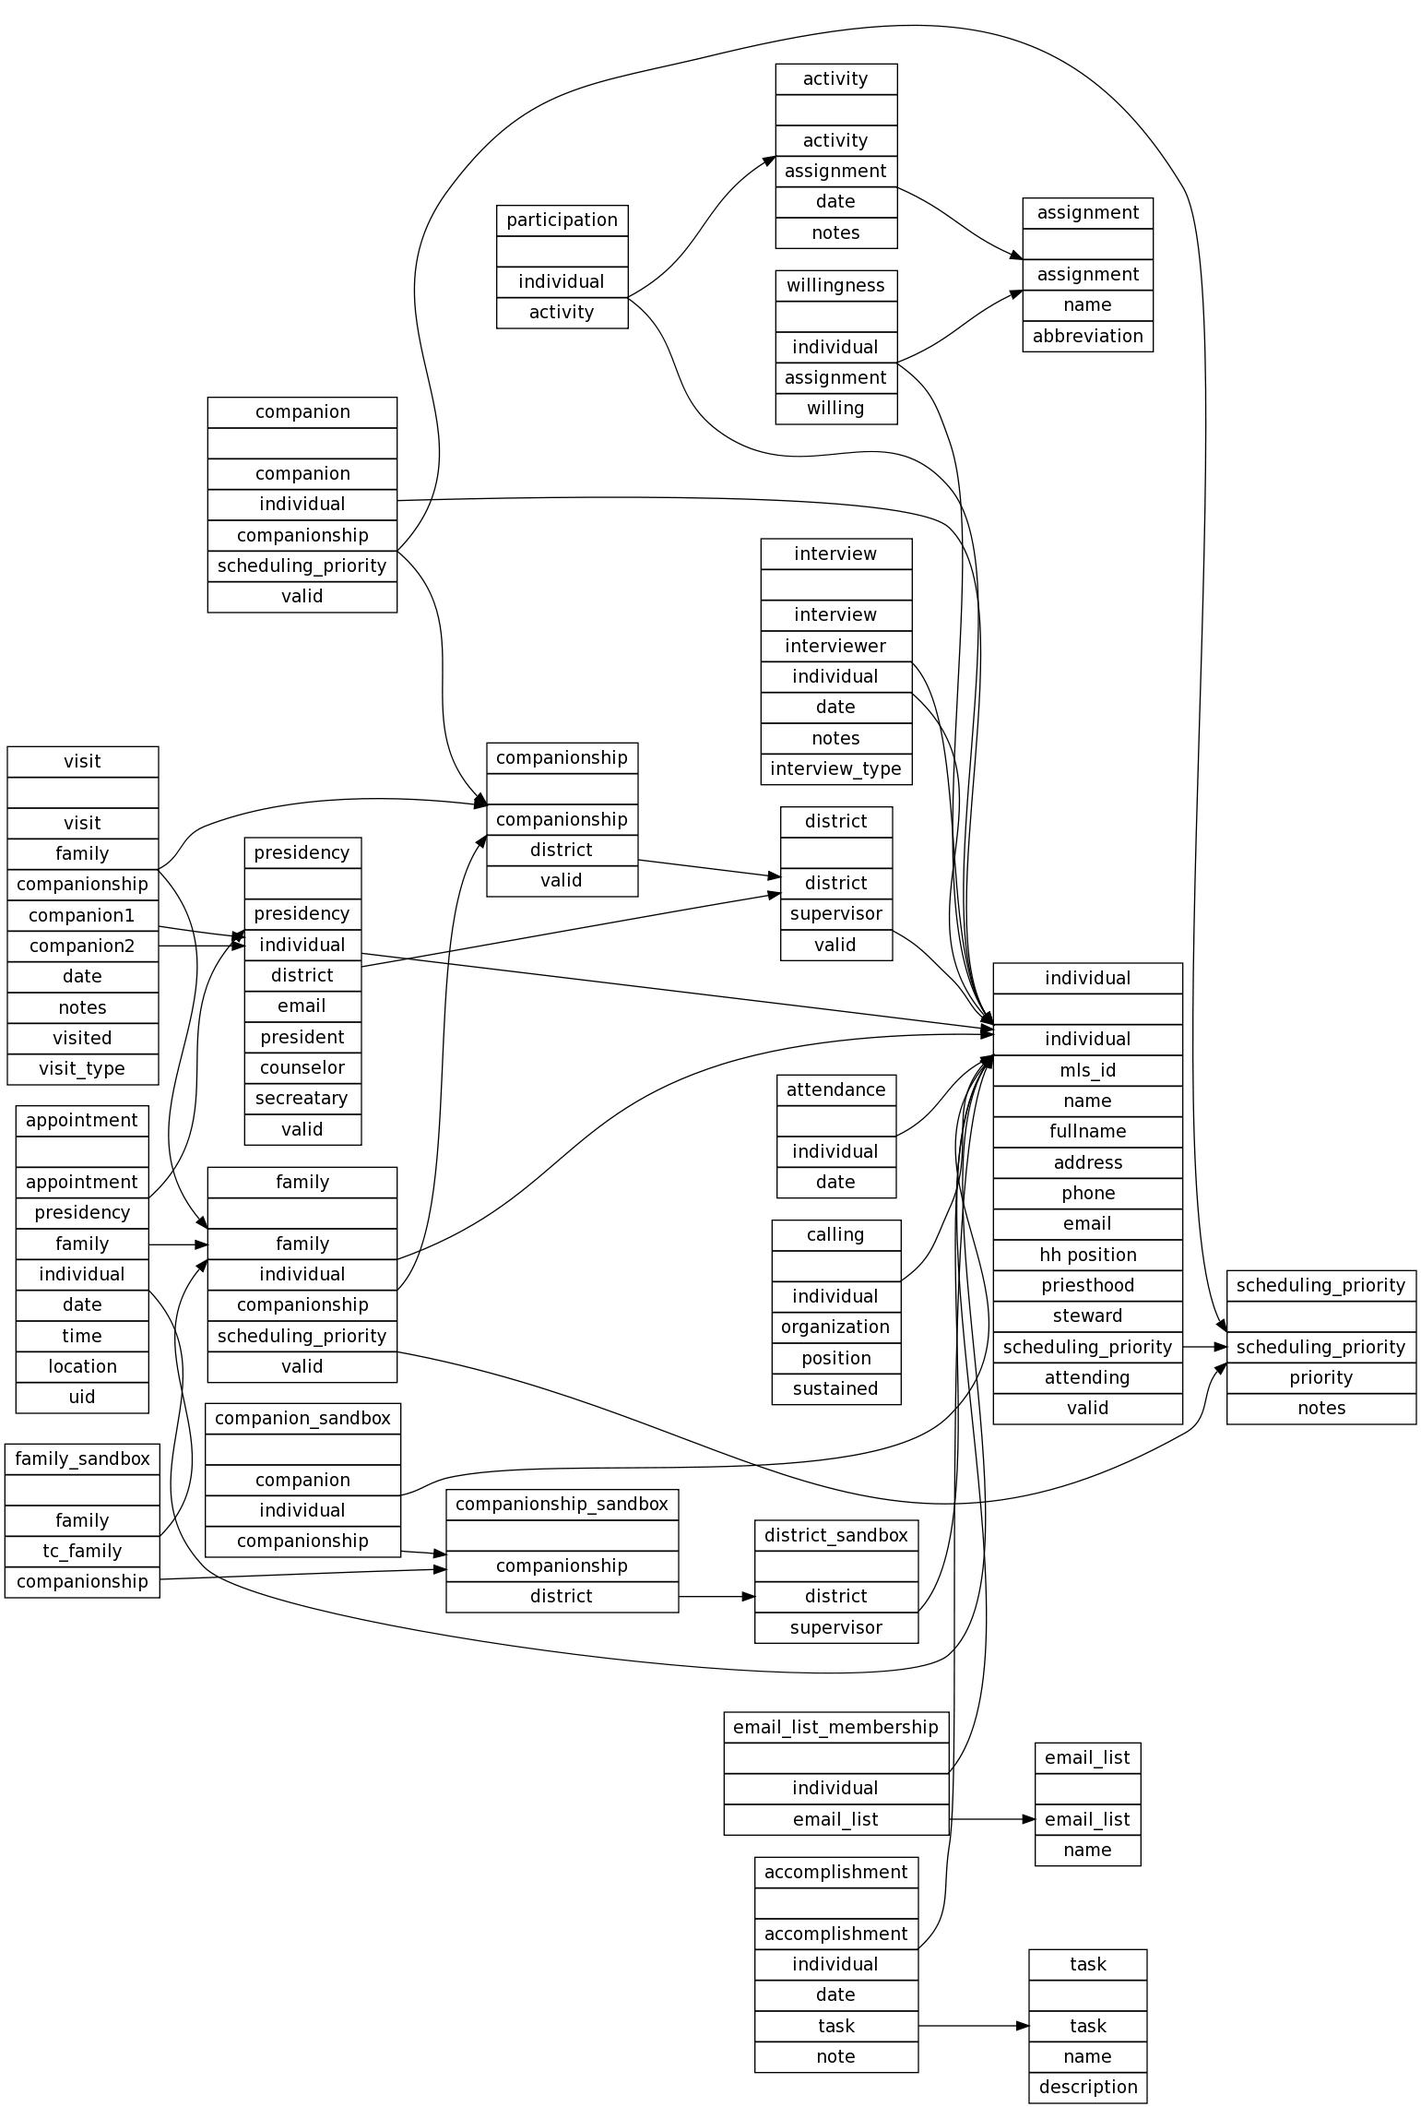
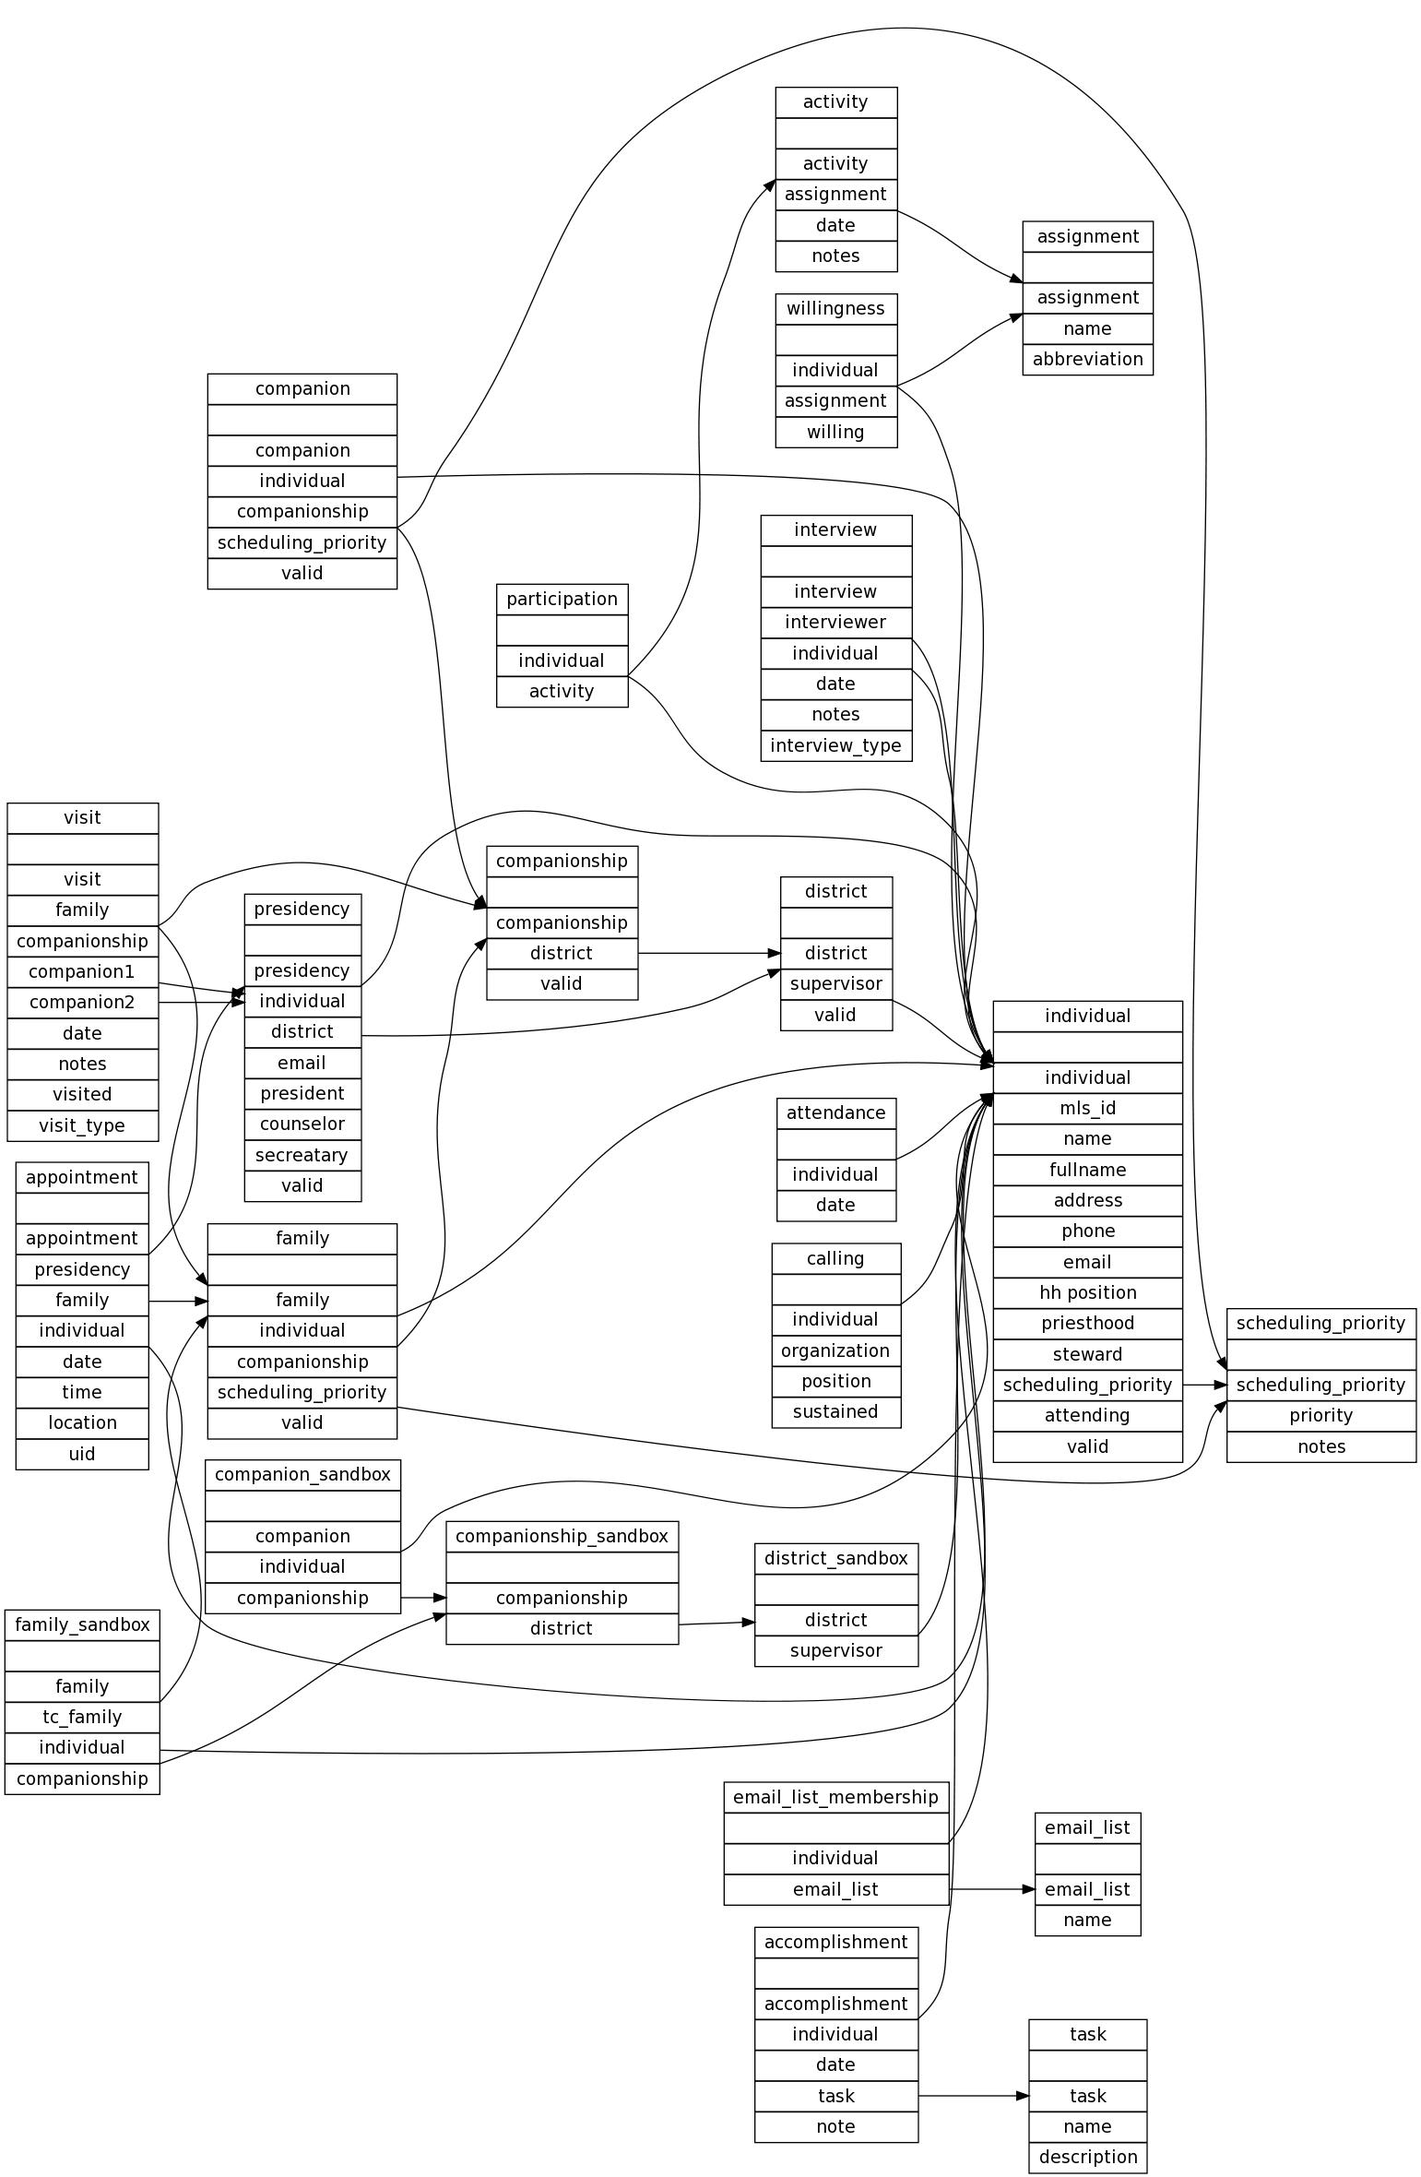
implemented functionality for ht sandbox

diff --git a/inc/class.tc.inc.php b/inc/class.tc.inc.php
@@ -410,24 +410,172 @@ class tc
 		$this->t->set_block('ht_sandbox_t','district_table_list','dt_list');
 		$this->t->set_block('ht_sandbox_t','companionship_table_list','ct_list');
 
-		$this->t->set_var('linkurl',$GLOBALS['phpgw']->link('/tc/index.php','menuaction=tc.tc.ht_sandbox'));
+		$this->t->set_var('submit_action',$GLOBALS['phpgw']->link('/tc/index.php','menuaction=tc.tc.ht_sandbox&action=add'));
+		
+	    $action = get_var('action',array('GET','POST'));
 
-		$this->t->set_var('actionurl',$GLOBALS['phpgw']->link('/tc/index.php','menuaction=tc.tc.ht_sandbox'));
 		$this->t->set_var('title','Hometeaching Sandbox'); 
 
+		if ($_POST['add']) {
+			#$this->t->set_var('debug_list',$_POST['add']);
+			$companionship = get_var('companionship',array('POST'));
+			$district = get_var('district',array('POST'));
+			$assignedHT_list = get_var('assignedHT',array('POST'));
+			$unassignedHT_list = get_var('unassignedHT',array('POST'));
+			$assigned_family_list = get_var('assignedFamiles',array('POST'));
+			$unassigned_family_list = get_var('unassignedFamilies',array('POST'));
+			
+			if ($assignedHT_list || $unassignedHT_list) {
+				$sql = "INSERT INTO tc_companionship_sandbox (district) VALUES (\"$district\")";
+				$this->db2->query($sql,__LINE__,__FILE__);
+				$companionship_sandbox = mysql_insert_id();
+				
+				foreach ($assignedHT_list as $individual) {
+					$sql = "INSERT INTO tc_companion_sandbox (individual,companionship) VALUES (\"$individual\",\"$companionship_sandbox\")";
+					$this->db->query($sql,__LINE__,__FILE__);
+				}
+				foreach ($unassignedHT_list as $individual) {
+					$sql = "INSERT INTO tc_companion_sandbox (individual,companionship) VALUES (\"$individual\",\"$companionship_sandbox\")";
+					$this->db->query($sql,__LINE__,__FILE__);
+				}
+				foreach ($assigned_family_list as $family) {
+					$sql = "UPDATE tc_family_sandbox SET companionship=$companionship_sandbox WHERE family=$family";
+					$this->db->query($sql,__LINE__,__FILE__);
+				}
+				foreach ($unassigned_family_list as $family) {
+					$sql = "UPDATE tc_family_sandbox SET companionship=$companionship_sandbox WHERE family=$family";
+					$this->db->query($sql,__LINE__,__FILE__);
+				}
+			} else {
+				$this->t->set_var('debug_list','You must select at least one companion!');
+			}
+		} else if ($_POST['delete']) {
+			#$this->t->set_var('debug_list',$_POST['delete']);
+			$companionship = get_var('companionship',array('POST'));
+			#$this->t->set_var('debug_list',$companionship);
+			
+			if ($companionship > 0) {
+				# unassign families
+				$sql = "UPDATE tc_family_sandbox SET companionship=NULL WHERE companionship=$companionship";
+				$this->db->query($sql,__LINE__,__FILE__);
+				
+				# remove companions
+				$sql = "DELETE FROM tc_companion_sandbox WHERE companionship=$companionship";
+				$this->db->query($sql,__LINE__,__FILE__);
+				
+				# remove companionship
+				$sql = "DELETE FROM tc_companionship_sandbox WHERE companionship=$companionship";
+				$this->db->query($sql,__LINE__,__FILE__);
+			} else {
+				$this->t->set_var('debug_list','You must select a companionship to delete!');
+			}
+		} else if ($_POST['update']) {
+			#$this->t->set_var('debug_list',$_POST['update']);
+			$companionship = get_var('companionship',array('POST'));
+			$district = get_var('district',array('POST'));
+			$assignedHT_list = get_var('assignedHT',array('POST'));
+			$unassignedHT_list = get_var('unassignedHT',array('POST'));
+			$assigned_family_list = get_var('assignedFamiles',array('POST'));
+			$unassigned_family_list = get_var('unassignedFamilies',array('POST'));
+			#$this->t->set_var('debug_list',$district);
+			
+			if ($companionship > 0) {
+				if ($assignedHT_list || $unassignedHT_list) {
+					# clear out existing info about companionship
+					$sql = "UPDATE tc_family_sandbox SET companionship=NULL WHERE companionship=$companionship";
+					$this->db->query($sql,__LINE__,__FILE__);
+					$sql = "DELETE FROM tc_companion_sandbox WHERE companionship=$companionship";
+					$this->db->query($sql,__LINE__,__FILE__);
+					
+					# set new info about companionship
+					$sql = "UPDATE tc_companionship_sandbox SET district=$district WHERE companionship=$companionship";
+					$this->db->query($sql,__LINE__,__FILE__);
+					foreach ($assignedHT_list as $individual) {
+						$sql = "INSERT INTO tc_companion_sandbox (individual,companionship) VALUES (\"$individual\",\"$companionship\")";
+						$this->db->query($sql,__LINE__,__FILE__);
+					}
+					foreach ($unassignedHT_list as $individual) {
+						$sql = "INSERT INTO tc_companion_sandbox (individual,companionship) VALUES (\"$individual\",\"$companionship\")";
+						$this->db->query($sql,__LINE__,__FILE__);
+					}
+					foreach ($assigned_family_list as $family) {
+						$sql = "UPDATE tc_family_sandbox SET companionship=$companionship WHERE family=$family";
+						$this->db->query($sql,__LINE__,__FILE__);
+					}
+					foreach ($unassigned_family_list as $family) {
+						$sql = "UPDATE tc_family_sandbox SET companionship=$companionship WHERE family=$family";
+						$this->db->query($sql,__LINE__,__FILE__);
+					}
+				} else {
+					$this->t->set_var('debug_list','You must select at least one companion!');
+				}
+			} else {
+				$this->t->set_var('debug_list','You must select a companionship to update!');
+			}
+		} else if ($_POST['reset']) {
+			#$this->t->set_var('debug_list',$_POST['reset']);
+			
+			$sql = "TRUNCATE TABLE tc_district_sandbox";
+			$this->db->query($sql,__LINE__,__FILE__);
+			$sql = "TRUNCATE TABLE tc_family_sandbox";
+			$this->db->query($sql,__LINE__,__FILE__);
+			$sql = "TRUNCATE TABLE tc_companion_sandbox";
+			$this->db->query($sql,__LINE__,__FILE__);
+			$sql = "TRUNCATE TABLE tc_companionship_sandbox";
+			$this->db->query($sql,__LINE__,__FILE__);
+			
+			# populate tc_district_sandbox
+			$sql = "SELECT * FROM tc_district WHERE valid=1";
+			$this->db->query($sql,__LINE__,__FILE__);
+			while ($this->db->next_record()) {
+				$district = $this->db->f('district');
+				$supervisor = $this->db->f('supervisor');
+				$sql = "INSERT INTO tc_district_sandbox (district,supervisor) VALUES (\"$district\",\"$supervisor\")";
+				$this->db2->query($sql,__LINE__,__FILE__);
+			}
+			
+			# populate family, companion, and companionship tables
+			$sql = "SELECT * FROM tc_companionship WHERE valid=1";
+			$this->db->query($sql,__LINE__,__FILE__);
+			while ($this->db->next_record()) {
+				$companionship = $this->db->f('companionship');
+				$district = $this->db->f('district');
+				$sql = "INSERT INTO tc_companionship_sandbox (district) VALUES (\"$district\")";
+				$this->db2->query($sql,__LINE__,__FILE__);
+				$companionship_sandbox = mysql_insert_id();
+				
+				$sql = "SELECT * FROM tc_companion WHERE companionship=$companionship AND valid=1";
+				$this->db2->query($sql,__LINE__,__FILE__);
+				while ($this->db2->next_record()) {
+					$individual = $this->db2->f('individual');
+					$sql = "INSERT INTO tc_companion_sandbox (individual,companionship) VALUES (\"$individual\",\"$companionship_sandbox\")";
+					$this->db3->query($sql,__LINE__,__FILE__);
+				}
+				
+				$sql = "SELECT * FROM tc_family WHERE companionship=$companionship AND valid=1";
+				$this->db2->query($sql,__LINE__,__FILE__);
+				while ($this->db2->next_record()) {
+					$individual = $this->db2->f('individual');
+					$family = $this->db2->f('family');
+					$sql = "INSERT INTO tc_family_sandbox (tc_family,individual,companionship) VALUES (\"$family\",\"$individual\",\"$companionship_sandbox\")";
+					$this->db3->query($sql,__LINE__,__FILE__);
+				}
+			}
+		}
+		
 		// get list of companionships
-		$sql = "SELECT DISTINCT companionship FROM tc_companionship where valid=1 ORDER BY companionship ASC";
+		$sql = "SELECT DISTINCT companionship FROM tc_companionship_sandbox ORDER BY companionship ASC";
 		$this->db->query($sql,__LINE__,__FILE__);
 		$unique_companionships = '';
 		$unique_companionships[0]['companionship'] = 0;
-		$this->t->set_var('companionship_list','<option value="0">New</option>');
-		$this->t->fp('list','comp_list',True);
+		$this->t->set_var('companionship_list','<option value="0">New Companionship</option>');
+		$this->t->fp('c_list','comp_list',True);
 		$j=1;
 		while ($this->db->next_record()) {
 			$companionship = $this->db->f('companionship');
 			$unique_companionships[$j]['companionship'] = $companionship;
 			$combined_companionship = "";
-			$sql = "SELECT * FROM tc_companion AS tc JOIN tc_individual AS ti WHERE tc.individual=ti.individual AND companionship=$companionship AND tc.valid=1 ORDER BY ti.name ASC";
+			$sql = "SELECT * FROM tc_companion_sandbox AS tc JOIN tc_individual AS ti WHERE tc.individual=ti.individual AND tc.companionship=$companionship ORDER BY ti.name ASC";
 			$this->db2->query($sql,__LINE__,__FILE__);
 			while ($this->db2->next_record()) {
 				if ($combined_companionship == "") {
@@ -436,19 +584,19 @@ class tc
 					$combined_companionship .= " / " . $this->db2->f('name');
 				}
 			}
-			$this->t->set_var('companionship_list','<option value="'.$j.'">'.$combined_companionship.'</option>');
+			$this->t->set_var('companionship_list','<option value="'.$companionship.'">'.$combined_companionship.'</option>');
 			$this->t->fp('c_list','comp_list',True);
 			$j++;
 		}
 
 		# get list of districts
-		$sql = "SELECT DISTINCT district FROM tc_district WHERE valid=1 ORDER BY district ASC";
+		$sql = "SELECT DISTINCT district FROM tc_district_sandbox ORDER BY district ASC";
 		$this->db->query($sql,__LINE__,__FILE__);
 		$districts = '';
 		$num_districts=0;
 		while ($this->db->next_record()) {
 			$districts[$num_districts] = $this->db->f('district');
-			$this->t->set_var('district','<option value="'.$num_districts.'">'.$districts[$num_districts].'</option>');
+			$this->t->set_var('district','<option value="'.$districts[$num_districts].'">'.$districts[$num_districts].'</option>');
 			$this->t->fp('d_list','district_list',True);
 			$num_districts++;
 		}
@@ -456,51 +604,33 @@ class tc
 		# get list of individuals who are and are not home teachers
 		$sql = "SELECT * FROM tc_individual WHERE steward='$this->default_stewardship' AND valid=1 ORDER BY name ASC";
 		$this->db->query($sql,__LINE__,__FILE__);
-		$unassigned_ht = '';
-		$assigned_ht = '';
-		$num_ht_assigned=0; $num_ht_unassigned=0;
 		while ($this->db->next_record()) {
 			$individual = $this->db->f('individual');
 			$name = $this->db->f('name');
-			$sql = "SELECT DISTINCT * FROM tc_companion WHERE individual=$individual AND valid=1";
+			$sql = "SELECT DISTINCT * FROM tc_companion_sandbox WHERE individual=$individual";
 			$this->db2->query($sql,__LINE__,__FILE__);
 			if ($this->db2->next_record()) {
-				$assigned_ht[$num_ht_assigned]['individual'] = $individual;
-				$assigned_ht[$num_ht_assigned]['name'] = $name;
-				$this->t->set_var('assigned_ht','<option value="'.$num_ht_assigned.'">'.$name.'</option>');
+				$this->t->set_var('assigned_ht','<option value="'.$individual.'">'.$name.'</option>');
 				$this->t->fp('aht_list','assigned_ht_list',True);
-				$num_ht_assigned++;
 			} else {
-				$unassigned_ht[$num_ht_unassigned]['individual'] = $individual;
-				$unassigned_ht[$num_ht_unassigned]['name'] = $name;
-				$this->t->set_var('unassigned_ht','<option value="'.$num_ht_unassigned.'">'.$name.'</option>');
+				$this->t->set_var('unassigned_ht','<option value="'.$individual.'">'.$name.'</option>');
 				$this->t->fp('uht_list','unassigned_ht_list',True);
-				$num_ht_unassigned++;
 			}
 		}
 		
 		# get list of families who are and are not assigned home teachers
-		$sql = "SELECT * FROM tc_family AS tf JOIN tc_individual AS ti WHERE tf.individual=ti.individual AND tf.valid=1 ORDER BY ti.name ASC";
+		$sql = "SELECT * FROM tc_family_sandbox AS tf JOIN tc_individual AS ti WHERE tf.individual=ti.individual ORDER BY ti.name ASC";
 		$this->db->query($sql,__LINE__,__FILE__);
-		$unassigned_families = '';
-		$assigned_families = '';
-		$num_families_assigned=0; $num_families_unassigned=0;
 		while ($this->db->next_record()) {
 			$individual = $this->db->f('individual');
 			$family = $this->db->f('family');
 			$name = $this->db->f('name');
 			if ($this->db->f('companionship') != 0) {
-				$assigned_families[$num_families_assigned]['family'] = $family;
-				$assigned_families[$num_families_assigned]['name'] = $name;
-				$this->t->set_var('assigned_family','<option value="'.$num_families_assigned.'">'.$name.' Family</option>');
+				$this->t->set_var('assigned_family','<option value="'.$family.'">'.$name.' Family</option>');
 				$this->t->fp('af_list','assigned_family_list',True);
-				$num_families_assigned++;
 			} else {
-				$unassigned_families[$num_families_unassigned]['family'] = $family;
-				$unassigned_families[$num_families_unassigned]['name'] = $name;
-				$this->t->set_var('unassigned_family','<option value="'.$num_families_assigned.'">'.$name.' Family</option>');
+				$this->t->set_var('unassigned_family','<option value="'.$family.'">'.$name.' Family</option>');
 				$this->t->fp('uf_list','unassigned_family_list',True);
-				$num_families_unassigned++;
 			}
 		}
 		
@@ -518,13 +648,13 @@ class tc
 		for ($d = 0; $d < $num_districts; $d++) {
 			$sandbox_table_data .= "<td valign=\"Top\">";
 			$sandbox_table_data .= "<table>";
-			$sql = "SELECT DISTINCT companionship FROM tc_companionship WHERE district=$districts[$d] AND valid=1 ORDER BY companionship ASC";
+			$sql = "SELECT DISTINCT companionship FROM tc_companionship_sandbox WHERE district=$districts[$d] ORDER BY companionship ASC";
 			$this->db->query($sql,__LINE__,__FILE__);
 			while ($this->db->next_record()) {
 				$sandbox_table_data .= "<tr><td><table>";
 				$companionship = $this->db->f('companionship');
 				# get names of companions in this companionship
-				$sql = "SELECT * FROM tc_companion AS tc JOIN tc_individual AS ti WHERE tc.individual=ti.individual AND companionship=$companionship AND tc.valid=1 ORDER BY ti.name ASC";
+				$sql = "SELECT * FROM tc_companion_sandbox AS tc JOIN tc_individual AS ti WHERE tc.individual=ti.individual AND companionship=$companionship ORDER BY ti.name ASC";
 				$this->db2->query($sql,__LINE__,__FILE__);
 				$companion_names = "";
 				while ($this->db2->next_record()) {
@@ -538,13 +668,13 @@ class tc
 				$sandbox_table_data .= "<tr><td><table>";
 				
 				# get families they visit
-				$sql = "SELECT * FROM tc_companionship AS tcp JOIN (tc_family AS tf, tc_individual AS ti) WHERE tcp.companionship=$companionship AND tcp.companionship=tf.companionship AND tf.individual=ti.individual AND tcp.valid=1";
+				$sql = "SELECT * FROM tc_companionship_sandbox AS tcp JOIN (tc_family_sandbox AS tf, tc_individual AS ti) WHERE tcp.companionship=$companionship AND tcp.companionship=tf.companionship AND tf.individual=ti.individual";
 				$this->db2->query($sql,__LINE__,__FILE__);
 				while ($this->db2->next_record()) {
 					$family_name = $this->db2->f('name') . " Family";
-					$family_id = $this->db2->f('family');
+					$family_id = $this->db2->f('tc_family');
 					$sandbox_table_data .= "<tr>";
-					$sandbox_table_data .= "<td>$family_name</td>";
+					$sandbox_table_data .= "<td align=\"Left\">$family_name</td>";
 					
 					# get 12 months visit data for given family
 					for($m=12; $m >= 0; $m--) {
@@ -561,9 +691,9 @@ class tc
 
 						if($this->db3->next_record()) {
 							if($this->db3->f('visited') == 'y') {
-								$sandbox_table_data .= '<td align=center><img src="images/checkmark.gif"></td>';
+								$sandbox_table_data .= "<td align=\"Right\"><img src=\"images/checkmark.gif\"></td>";
 							} else if($this->db3->f('visited') == 'n') {
-								$sandbox_table_data .= '<td align=center><img src="images/x.gif"></td>';
+								$sandbox_table_data .= "<td align=\"Right\"><img src=\"images/x.gif\"></td>";
 							} else {
 								$sandbox_table_data .= "<td>&nbsp;</td>";
 							}
